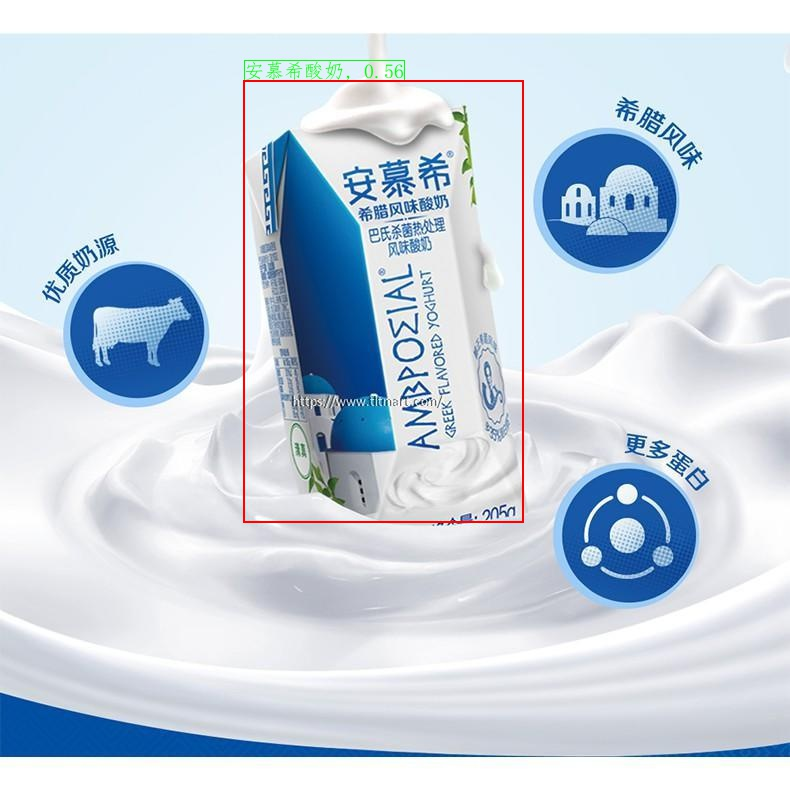
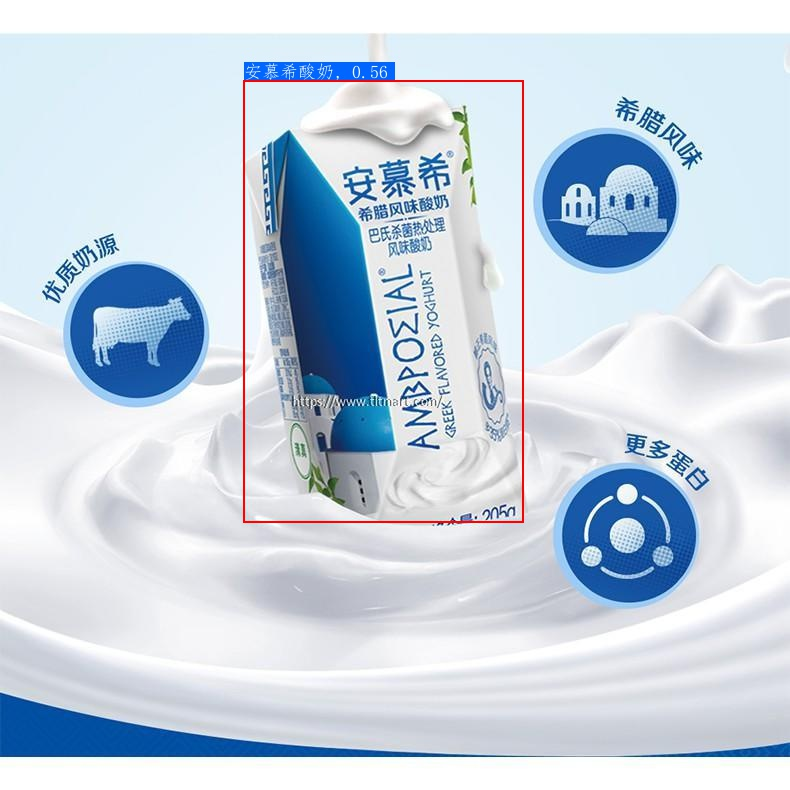
fix visualization

Changed region(s): [[0.3038, 0.0608, 0.5165, 0.1215]]

diff --git a/deploy/utils/draw_bbox.py b/deploy/utils/draw_bbox.py
@@ -26,9 +26,9 @@ def draw_bbox_results(image,
     if isinstance(image, np.ndarray):
         image = Image.fromarray(image)
     draw = ImageDraw.Draw(image)
-    font = ImageFont.truetype(font_path, 20, encoding="utf-8")
+    font_size = 18
+    font = ImageFont.truetype(font_path, font_size, encoding="utf-8")
 
-#     color = (0, 255, 0)
     color = (0, 102, 255)
 
     for result in results:
@@ -38,15 +38,14 @@ def draw_bbox_results(image,
 
         xmin, ymin, xmax, ymax = result["bbox"]
         text = "{}, {:.2f}".format(result["rec_docs"], result["rec_scores"])
-        th = 20
-        tw = int(len(result["rec_docs"]) * 20) + 60
+        th = font_size
+        tw = int(len(result["rec_docs"]) * font_size) + 60
         start_y = max(0, ymin - th)
-        
-#         draw.rectangle(
-#             [(xmin + 1, start_y), (xmin + tw + 1, start_y + th)],
-#             outline=color)
 
-        draw.text((xmin + 1, start_y), text, fill=color, font=font)
+        draw.rectangle(
+            [(xmin + 1, start_y), (xmin + tw + 1, start_y + th)], fill=color)
+
+        draw.text((xmin + 1, start_y), text, fill=(255, 255, 255), font=font)
 
         draw.rectangle(
             [(xmin, ymin), (xmax, ymax)], outline=(255, 0, 0), width=2)
